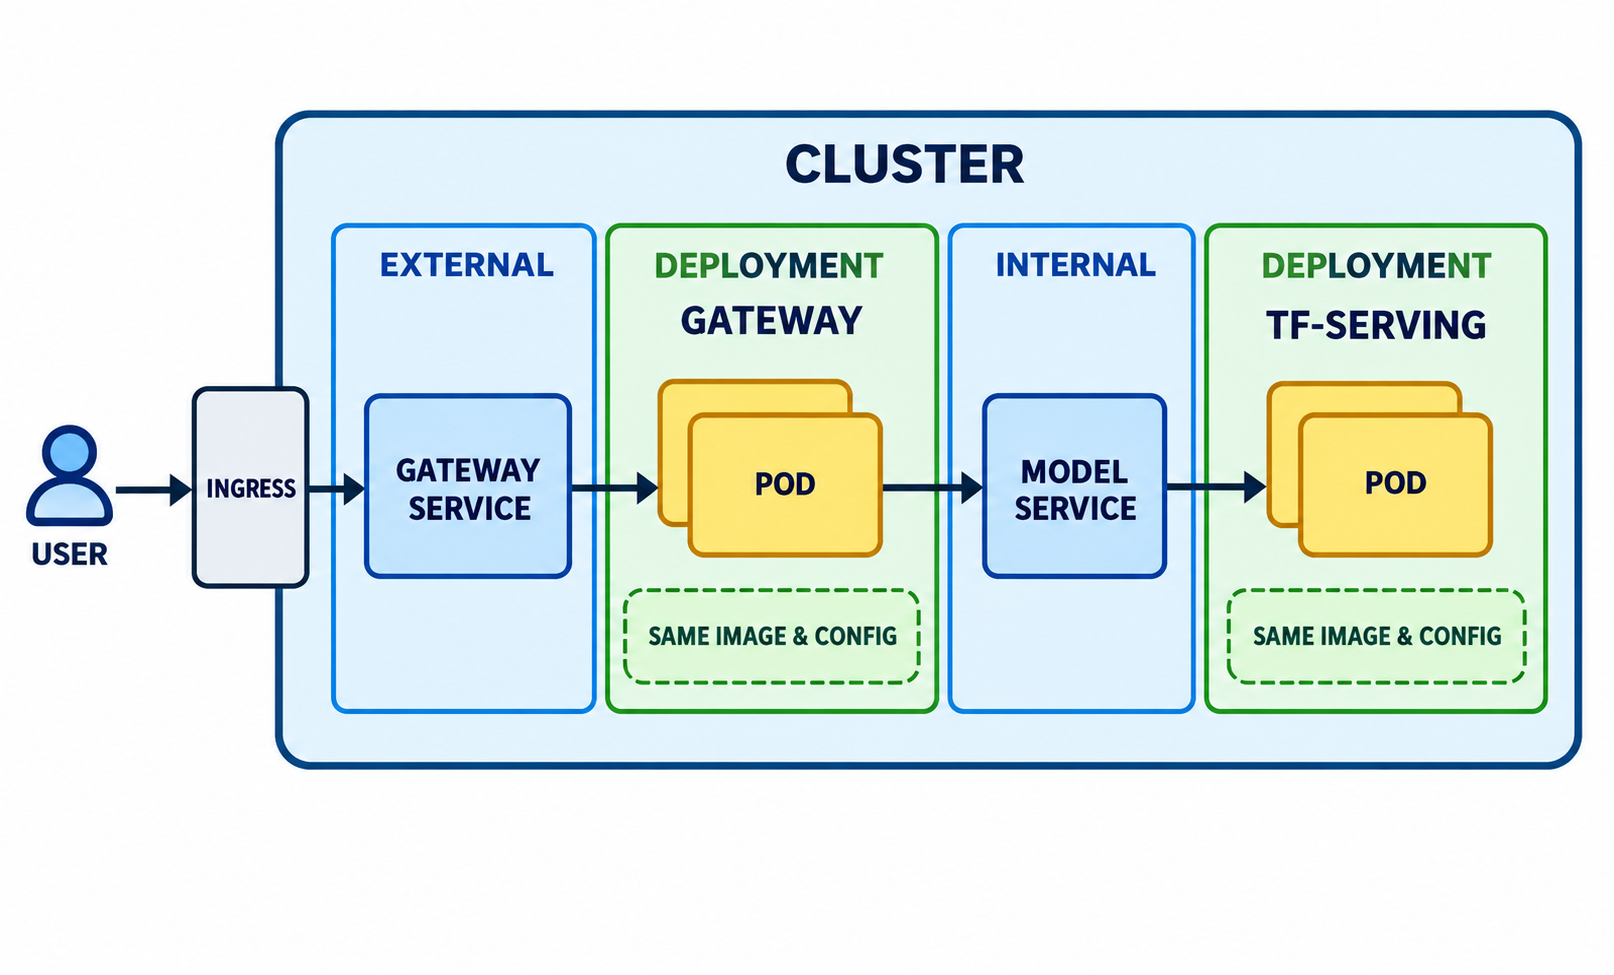
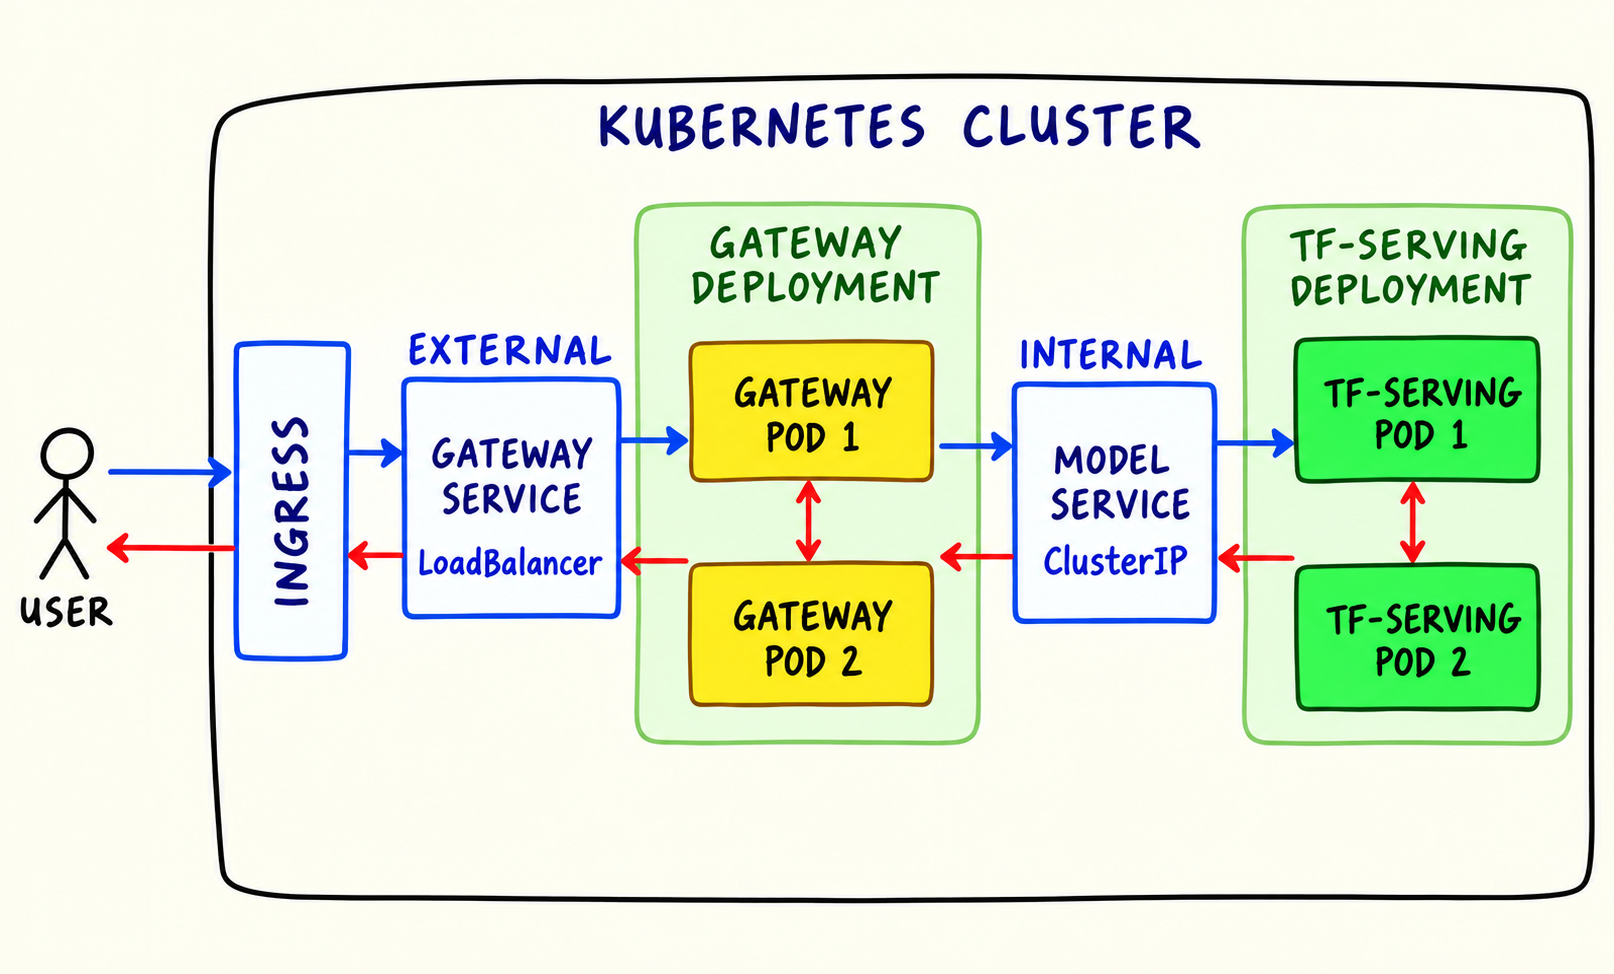
Repair Kubernetes visual provenance checkpoint

diff --git a/cohorts/2026/10-kubernetes/images/2026-09-08-kubernetes-imagegen-repair-provenance.md b/cohorts/2026/10-kubernetes/images/2026-09-08-kubernetes-imagegen-repair-provenance.md
@@ -1,194 +1,108 @@
-# Kubernetes visual repair provenance — 2026-09-08
+# Kubernetes visual provenance ledger — 2026-09-09
 
-This ledger records the strict follow-up to the Herschel audit of the 49
-active image references in `cohorts/2026/10-kubernetes`. Earlier crispness
-claims are withdrawn. The independently accepted 11 assets were left byte-for-byte
-unchanged.
+This ledger is the checkpoint for the 14 image references currently active in
+the Kubernetes lessons. The active set is taken from the Markdown under this
+module; removed historical references are not counted. The published outputs
+are either source-backed imagegen redraws, the deterministic definitions
+render, or the documented prompt-native conceptual exception.
 
-## Native cleanup
+## Active-reference checkpoint — 14/14
 
-Commit `c613aa7` removed the 33 `REMOVE-NATIVE` image references from the
-lesson Markdown. After inspecting the unresolved references, commit
-`d679ff8` also removed the duplicate Docker command screenshot. The
-corresponding source binaries remain in `images/` for historical/source
-inspection. One unresolved AWS console reference remains active.
+| # | Lesson reference | Published asset | Native | 608px lesson render | Provenance | Published SHA-256 | C2PA |
+| ---: | --- | --- | ---: | ---: | --- | --- | --- |
[14 lines of base64/hex data omitted]
 
-## Imagegen repair batch
+The active checkpoint therefore contains 13 C2PA-backed imagegen outputs and
+one deterministic SVG/PNG output. The definitions PNG has no imagegen
+manifest by design; its source evidence is not a generation input.
 
-Each repair used the original non-crisp JPG and a bounded crop as reference
-inputs. The generated result was inspected at native size and after a 608px
-render. No output was accepted if it was only resized/sharpened, retained a
-camera/overlay artifact, or changed the lesson semantics.
+## Native crop evidence and reproducibility
 
-| Target | Original JPG SHA-256 | Bounded crop SHA-256 | Final SHA-256 | Final size | Method and result |
-| --- | --- | --- | --- | --- | --- |
[3 lines of base64/hex data omitted]
+The reproducibility script is
+[`2026-09-09-kubernetes-remaining-provenance-crops.sh`](2026-09-09-kubernetes-remaining-provenance-crops.sh).
+It applies only ImageMagick `-crop 475x360+23+0`, `+repage`, and JPEG quality
+100 to the original JPG. It performs no resize, Lanczos pass, sharpening, or
+other enhancement. The script includes the six earlier source-backed crops,
+the two repaired screenshot-derived inputs, and the definitions source-evidence
+crop.
 
-## Focused semantic repair batch — 2026-09-09
+The two repaired outputs used both the full original JPG and the matching
+native crop as imagegen inputs. The accepted built-in imagegen executions were
+`exec-2a0b1faa-ba35-401d-9ec9-452e281f7f47` for Services and
+`exec-caadcb9c-ee07-4a48-9522-03fd206900e9` for External/Internal/Ingress.
+Rejected imagegen candidates were not used as inputs to either published
+output.
 
-These five outputs supersede the prior published PNGs for the same targets.
-Each was generated with the original non-crisp JPG **and** the retained
-bounded crop as imagegen inputs. The final PNGs were inspected at native
-resolution and at a simulated 608px lesson width. C2PA metadata was checked
-in each published output; the URN is recorded below.
+| Source JPG | Native crop | Crop size | Source SHA-256 | Crop SHA-256 |
+| --- | --- | ---: | --- | --- |
[3 lines of base64/hex data omitted]
 
-| Target | Original JPG SHA-256 | Bounded crop SHA-256 | Final SHA-256 | Final size | Method, semantic repair, and C2PA |
-| --- | --- | --- | --- | --- | --- |
[5 lines of base64/hex data omitted]
+The definitions crop is retained only to prove the native source boundary. The
+published PNG is a deterministic render of
+`2026-09-08-kubernetes-definitions-render.svg`; ImageMagick pixel comparison
+against that SVG render is exact (`AE=0`). This is why the ledger does not
+claim C2PA imagegen provenance for the definitions PNG.
 
-## Corrected scaling topology — 2026-09-09
+The other active source-backed rows retain their previously audited native
+crop files. Their crop dimensions remain part of the source chain:
 
-The previous scaling redraw is superseded because it used the wrong concrete
-replica counts. The source-of-truth lesson text says: “five instances of the
-gateway on CPU machines and two instances of TensorFlow Serving on GPU
-machines” (`01-overview.md:77-81`). The replacement below was generated from
-the original non-crisp JPG and the retained bounded crop, without using the
-incorrect redraw as an input.
+| Published asset | Source JPG | Retained crop | Crop size |
+| --- | --- | --- | ---: |
+| `01-overview-01-tf-serving-inference-imagegen.png` | `01-overview-01-tf-serving-inference.jpg` | `01-overview-01-tf-serving-inference-imagegen-crop.jpg` | 475×360 |
+| `01-overview-02-architecture-imagegen.png` | `01-overview-02-architecture.jpg` | `01-overview-02-architecture-imagegen-crop.jpg` | 475×360 |
+| `01-overview-03-grpc-imagegen.png` | `01-overview-03-grpc.jpg` | `01-overview-03-grpc-imagegen-crop.jpg` | 475×360 |
+| `01-overview-04-kubernetes-imagegen.png` | `01-overview-04-kubernetes.jpg` | `01-overview-04-kubernetes-imagegen-crop.jpg` | 475×360 |
+| `01-overview-05-cpu-gpu-imagegen.png` | `01-overview-05-cpu-gpu.jpg` | `01-overview-05-cpu-gpu-cropped.png` | 478×360 |
+| `04-docker-compose-03-isolated-containers-imagegen.png` | `04-docker-compose-03-isolated-containers.jpg` | `04-docker-compose-03-isolated-containers-cropped.png` | 450×330 |
+| `05-kubernetes-intro-01-cluster-nodes-pods-imagegen.png` | `05-kubernetes-intro-01-cluster-nodes-pods.jpg` | `05-kubernetes-intro-01-cluster-nodes-pods-imagegen-crop.jpg` | 475×360 |
+| `05-kubernetes-intro-02-deployments-imagegen.png` | `05-kubernetes-intro-02-deployments.jpg` | `05-kubernetes-intro-02-deployments-imagegen-crop.jpg` | 475×360 |
+| `05-kubernetes-intro-06-scaling-imagegen.png` | `05-kubernetes-intro-06-scaling.jpg` | `05-kubernetes-intro-06-scaling-cropped.png` | 536×338 |
+| `09-summary-01-architecture-imagegen.png` | `09-summary-01-architecture.jpg` | `09-summary-01-architecture-cropped.png` | 478×360 |
 
-| Target | Original JPG SHA-256 | Bounded crop SHA-256 | Final SHA-256 | Final size | Method, semantic repair, and C2PA |
-| --- | --- | --- | --- | --- | --- |
[1 lines of base64/hex data omitted]
+## Semantic source support
 
-Validation details for the replacement:
+- Services is supported by `05-kubernetes-intro.md:56-72`: two services,
+  Gateway Service and Model Service; Gateway Service distributes to Gateway
+  pods; each Gateway pod uses Model Service; Model Service routes to a
+  TensorFlow Serving pod and the response returns to the user.
+- External/Internal/Ingress is supported by
+  `05-kubernetes-intro.md:79-92`: `LoadBalancer` is external, `ClusterIP`
+  is internal, and clients contact `Ingress` first.
+- Definitions is supported by `05-kubernetes-intro.md:50-52` and `:79-92`.
+  Exact labels are rendered natively in the SVG, including `LoadBalancer`,
+  `ClusterIP`, and `same image and configuration`.
+- The Explore More visual is a prompt-native exception, not screenshot
+  crispification. Its namespace with model and gateway services, local versus
+  managed-cloud split, and same deployment pattern are supported by
+  `10-explore-more.md:4-14`. The managed-cloud examples are also consistent
+  with the EKS lesson's explicit Amazon cloud deployment at
+  `08-eks.md:6-10` and its load-balancer → gateway → internal model-service →
+  TF-Serving flow at `08-eks.md:151-155`. No source JPG or native crop is
+  fabricated for this new conceptual visual.
 
-- Native render: `1536×1024`; simulated lesson render: `608×405`.
-- Targeted OCR of each pod interior returned `POD` for all five Gateway
-  pods and both TF-Serving pods at both native and simulated lesson sizes
-  (`7/7` labels at each size).
-- Visual and color-component checks independently counted five yellow
-  Gateway boxes and two green TF-Serving boxes; no additional pod boxes were
-  present.
-- Native and 608px visual inspection confirmed the single request path and
-  found no face, webcam, browser, cursor, playback, or selection overlays.
+## Historical superseded rows
 
-### Checkpoint status
+These rows are retained for audit history and are not part of the 14 active
+references above.
 
-All three requested assets are now checkpointed. The ingress and scaling
-outputs are imagegen redraws from their original JPGs and bounded crops. The
-definitions image uses the inspected imagegen candidate as the semantic/style
-reference, followed by a deterministic SVG render because exact Kubernetes
-term casing could not be trusted in generated text.
-
-The ingress and scaling final PNGs carry C2PA metadata identifying the
-built-in image-generation service. The definitions final PNG is the
-deterministic render described above; its imagegen candidate carries the C2PA
-metadata. The scaling crop was created only to bound the board content before
-generation; it is not used as a lesson reference.
-
-## Unresolved-reference inspection
-
-### `02-tensorflow-serving-03-docker-run-crisp.png`
-
-The original, bounded crop, and current target are a terminal/code capture
-with handwritten annotations. The lesson already includes the complete
-`docker run` command and explains the model name/version mapping in prose.
-This is native command content rather than a useful conceptual visual, so its
-Markdown image reference was removed in `d679ff8` while preserving the JPG,
-crop, and existing PNG source binaries.
-
-### Removed `08-eks-06-aws-console-crisp.png` reference
-
-The Markdown embed was removed from `08-eks.md` because this is a factual AWS
-console evidence screenshot, not a conceptual diagram. The source contains
-browser/camera capture artifacts, and the current PNG is an enlarged screenshot
-rather than a verified redraw. Regenerating it with imagegen would require
-inventing AWS interface text and therefore would not be faithful to the lesson.
-The surrounding lesson explanation remains and still describes the EKS node,
-EC2 instances, and load balancer.
-
-The source and preserved output files were not deleted. Their exact hashes at
-removal time are:
-
-| File | SHA-256 |
-| --- | --- |
[3 lines of base64/hex data omitted]
-
-No replacement image was generated. This is an intentional removal of the
-Markdown reference only; the original, crop, and prior PNG remain available
-for historical/source inspection.
-
-## Remaining strict-audit provenance queue — 2026-09-09
-
-The strict audit classified seven visually usable active references as
-`PROVENANCE-BLOCKED`. Six were screenshot-derived diagrams whose prior
-imagegen outputs had no durable native bounded crop recorded in this module.
-They were regenerated with built-in imagegen using only the original
-non-crisp JPG and the matching native crop below. The seventh reference is a
-direct conceptual imagegen illustration with no underlying JPG; its C2PA
-record and native/608px evidence were already valid, so it remains
-byte-for-byte unchanged.
-
-The checked-in crop script is
-[`2026-09-09-kubernetes-remaining-provenance-crops.sh`](2026-09-09-kubernetes-remaining-provenance-crops.sh),
-with SHA-256
[1 lines of base64/hex data omitted]
-It uses only ImageMagick `-crop 475x360+23+0` and `+repage` on the original
-JPGs. It performs no resize, Lanczos pass, sharpening, or other enhancement.
-The previous published PNGs were not supplied as imagegen references.
-
-`RMSE` is the normalized ImageMagick comparison against a temporary crop
-resized to the published output dimensions. That resize exists only for the
-comparison and is not a generation step. Native outputs and temporary
-simulated 608px lesson-width renders were inspected; the temporary renders
-are not published.
-
-### Source-backed redraws
-
-`Crop` is `(x, y, width, height)` in source-JPG pixels. The accepted imagegen
-execution is the final generation after any rejected punctuation/count
-candidate; no prior PNG was used as an input.
-
-| Published PNG | Lesson reference | Source JPG | Crop JPG | Crop | Source SHA-256 | Crop SHA-256 | Previous PNG SHA-256 | Current PNG SHA-256 | Native | 608px | Imagegen execution | C2PA | RMSE |
-| --- | --- | --- | --- | --- | --- | --- | --- | --- | --- | --- | --- | --- | --- |
[6 lines of base64/hex data omitted]
-
-### Preserved invariants and removed artifacts
-
-- The inference diagram keeps the one input arrow, `X`, `INFERENCE`,
-  `TF-SERVING`, `C++`, and `CLOTHING MODEL`.
-- The architecture and gRPC diagrams keep the exact website → gateway →
-  TF-Serving routing, both return arrows, `URL`, `X`, `gRPC`, `10 NUMBERS`,
-  and the visible response notation `"pants": 9.88,...`.
-- The Kubernetes-boundary diagram keeps the website outside one Kubernetes
-  boundary, the gateway/Flask and TF-Serving/C++ boxes inside it, and the
-  request/response arrows and labels.
-- The nodes/pods diagram contains exactly two nodes and four pod boxes.
-- The deployments diagram contains exactly two nodes, two deployment
-  boundaries, and exactly four pods: two Gateway pods and two TF-Serving pods,
-  with both `SAME IMAGE & CONFIG` arrow relationships.
-- Faces, webcam/camera tiles, black capture bars, browser/editor/recorder
-  chrome, cursors, play controls, page indicators, selection overlays, and
-  watermarks were removed from all six redraws.
-
-### Retained direct imagegen output
-
-| Published PNG | Lesson reference | Current PNG SHA-256 | Native | 608px | C2PA | Decision |
-| --- | --- | --- | --- | --- | --- | --- |
[1 lines of base64/hex data omitted]
-
-No source/crop pair was fabricated for this direct imagegen asset.
-
-### Verification checkpoint
-
-- All seven audited active references resolve from the lesson Markdown.
-- All six source-backed outputs carry C2PA metadata and have a durable
-  original JPG → native crop → imagegen output chain.
-- All six source-backed output/crop comparisons are materially different
-  from a resized crop (`RMSE` `0.171616`–`0.313808`), so no resize-only,
-  Lanczos-only, or sharpen-only output was accepted.
-- Native and simulated 608px visual inspection confirmed legible labels,
-  routing/arrows, exact pod counts, and no capture overlays. The temporary
-  608px renders are not committed.
+| Asset | Superseded SHA-256 | Replacement / reason |
+| --- | --- | --- |
[4 lines of base64/hex data omitted]
